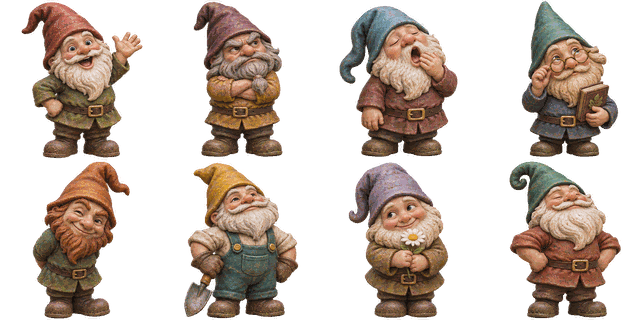
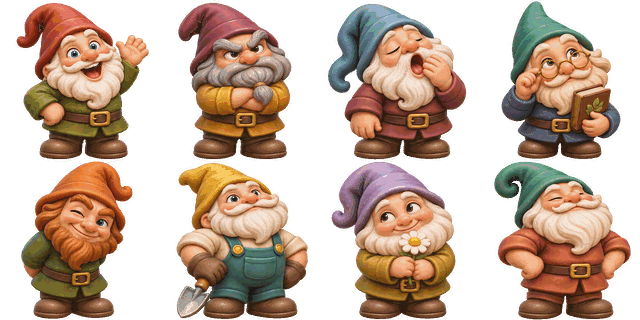
Replace Gnome token sprites with the approved cartoon artwork

diff --git a/tokens.py b/tokens.py
@@ -10,7 +10,7 @@ from flask import Blueprint, abort, jsonify, render_template, request
 tokens = Blueprint("tokens", __name__)
 TOKEN_TYPES = {
     "statue": {"name": "Statue", "plural": "Statues", "image": "/static/img/tiki-statues.png", "base": 1},
-    "gnome": {"name": "Gnome", "plural": "Gnomes", "image": "/static/img/gnomes.png", "base": 1},
+    "gnome": {"name": "Gnome", "plural": "Gnomes", "image": "/static/img/gnomes.png?v=cartoon-2", "base": 1},
     "thopter": {"name": "Thopter", "plural": "Thopters", "image": "/static/img/thopters.png", "base": 1},
 }
 
